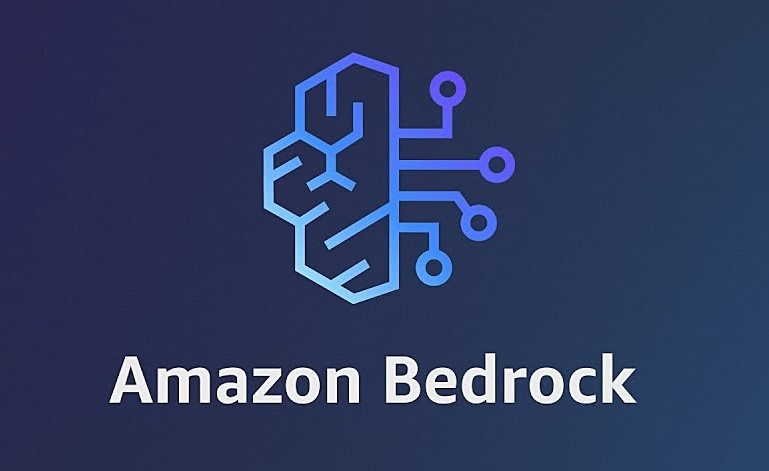
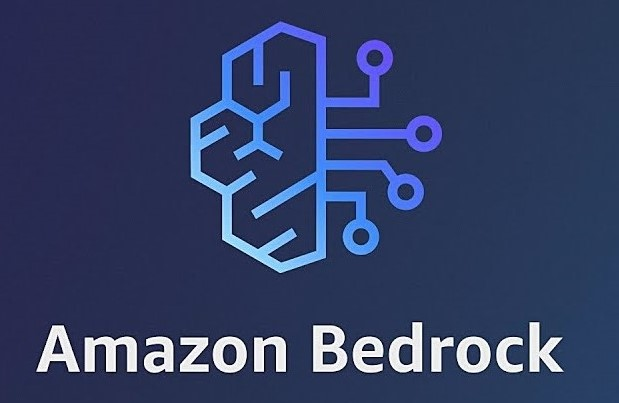
updated hero image

Changed region(s): [[0.3069, 0.0298, 0.7367, 0.6849], [0.0614, 0.7444, 0.9208, 0.9529]]

diff --git a/components/home/OurClients.jsx b/components/home/OurClients.jsx
@@ -4,13 +4,13 @@ import { SiAmazonaws } from "react-icons/si";
 
 const OurClients = () => {
   const ClientLogos = [
-    "/assets/images/services/aws_sagemaker.webp",
+    "/assets/images/services/aws-sagemaker.png",
+    "/assets/images/services/aws_textract.png",
+    "/assets/images/services/aws_bedrock.jpg",
     "/assets/images/services/databricks.png",
     "/assets/images/services/anthropic.svg",
     "/assets/images/services/anyscale.svg",
     "/assets/images/services/hugging_face.svg",
-    "/assets/images/services/aws_bedrock.jpg",
-    "/assets/images/services/aws_textract.png",
     "/assets/images/services/azure_openai.png",
   ];
 
@@ -31,7 +31,7 @@ const OurClients = () => {
                 alt="client logo"
                 width={150}
                 height={1000}
-                className="rounded-lg object-contain"
+                className="object-contain"
                 priority={true}
                 quality={100}
               />

diff --git a/components/home/Hero.jsx b/components/home/Hero.jsx
@@ -48,7 +48,7 @@ const Hero = () => {
               <div className="absolute -z-10 -right-52 -top-32 p-52 rounded-full bg-primary-500 blur-3xl opacity-30"></div>
 
               <Image
-                src={"/assets/images/hero_img.png"}
+                src={"/assets/images/hero-bg.png"}
                 alt="hero image"
                 width={1000}
                 height={1000}
